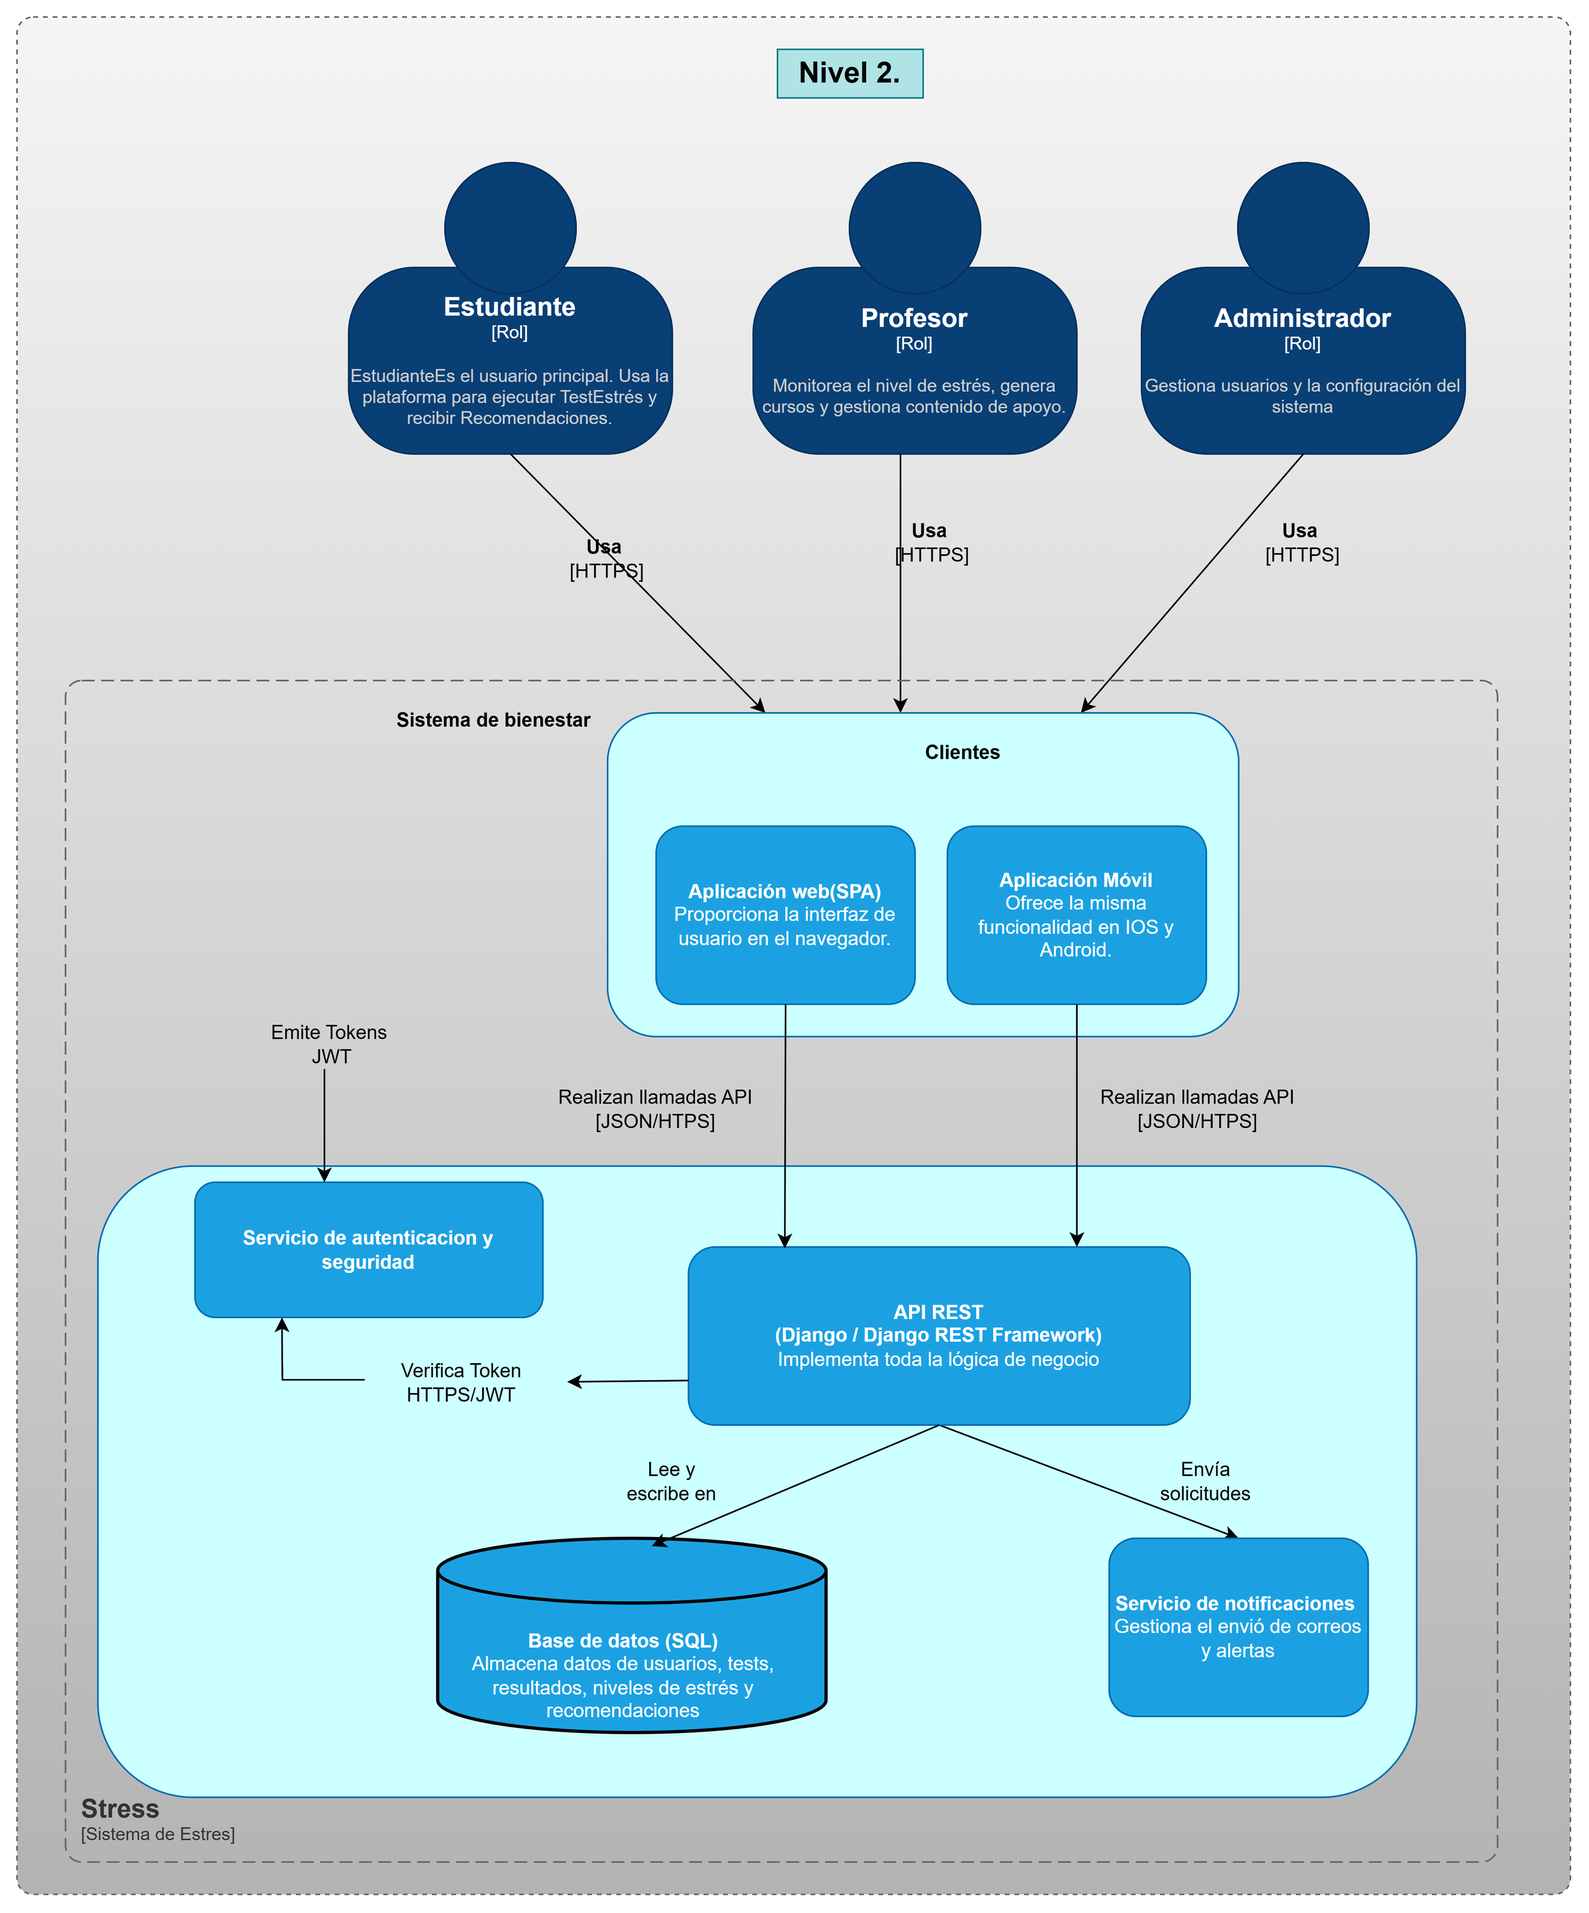
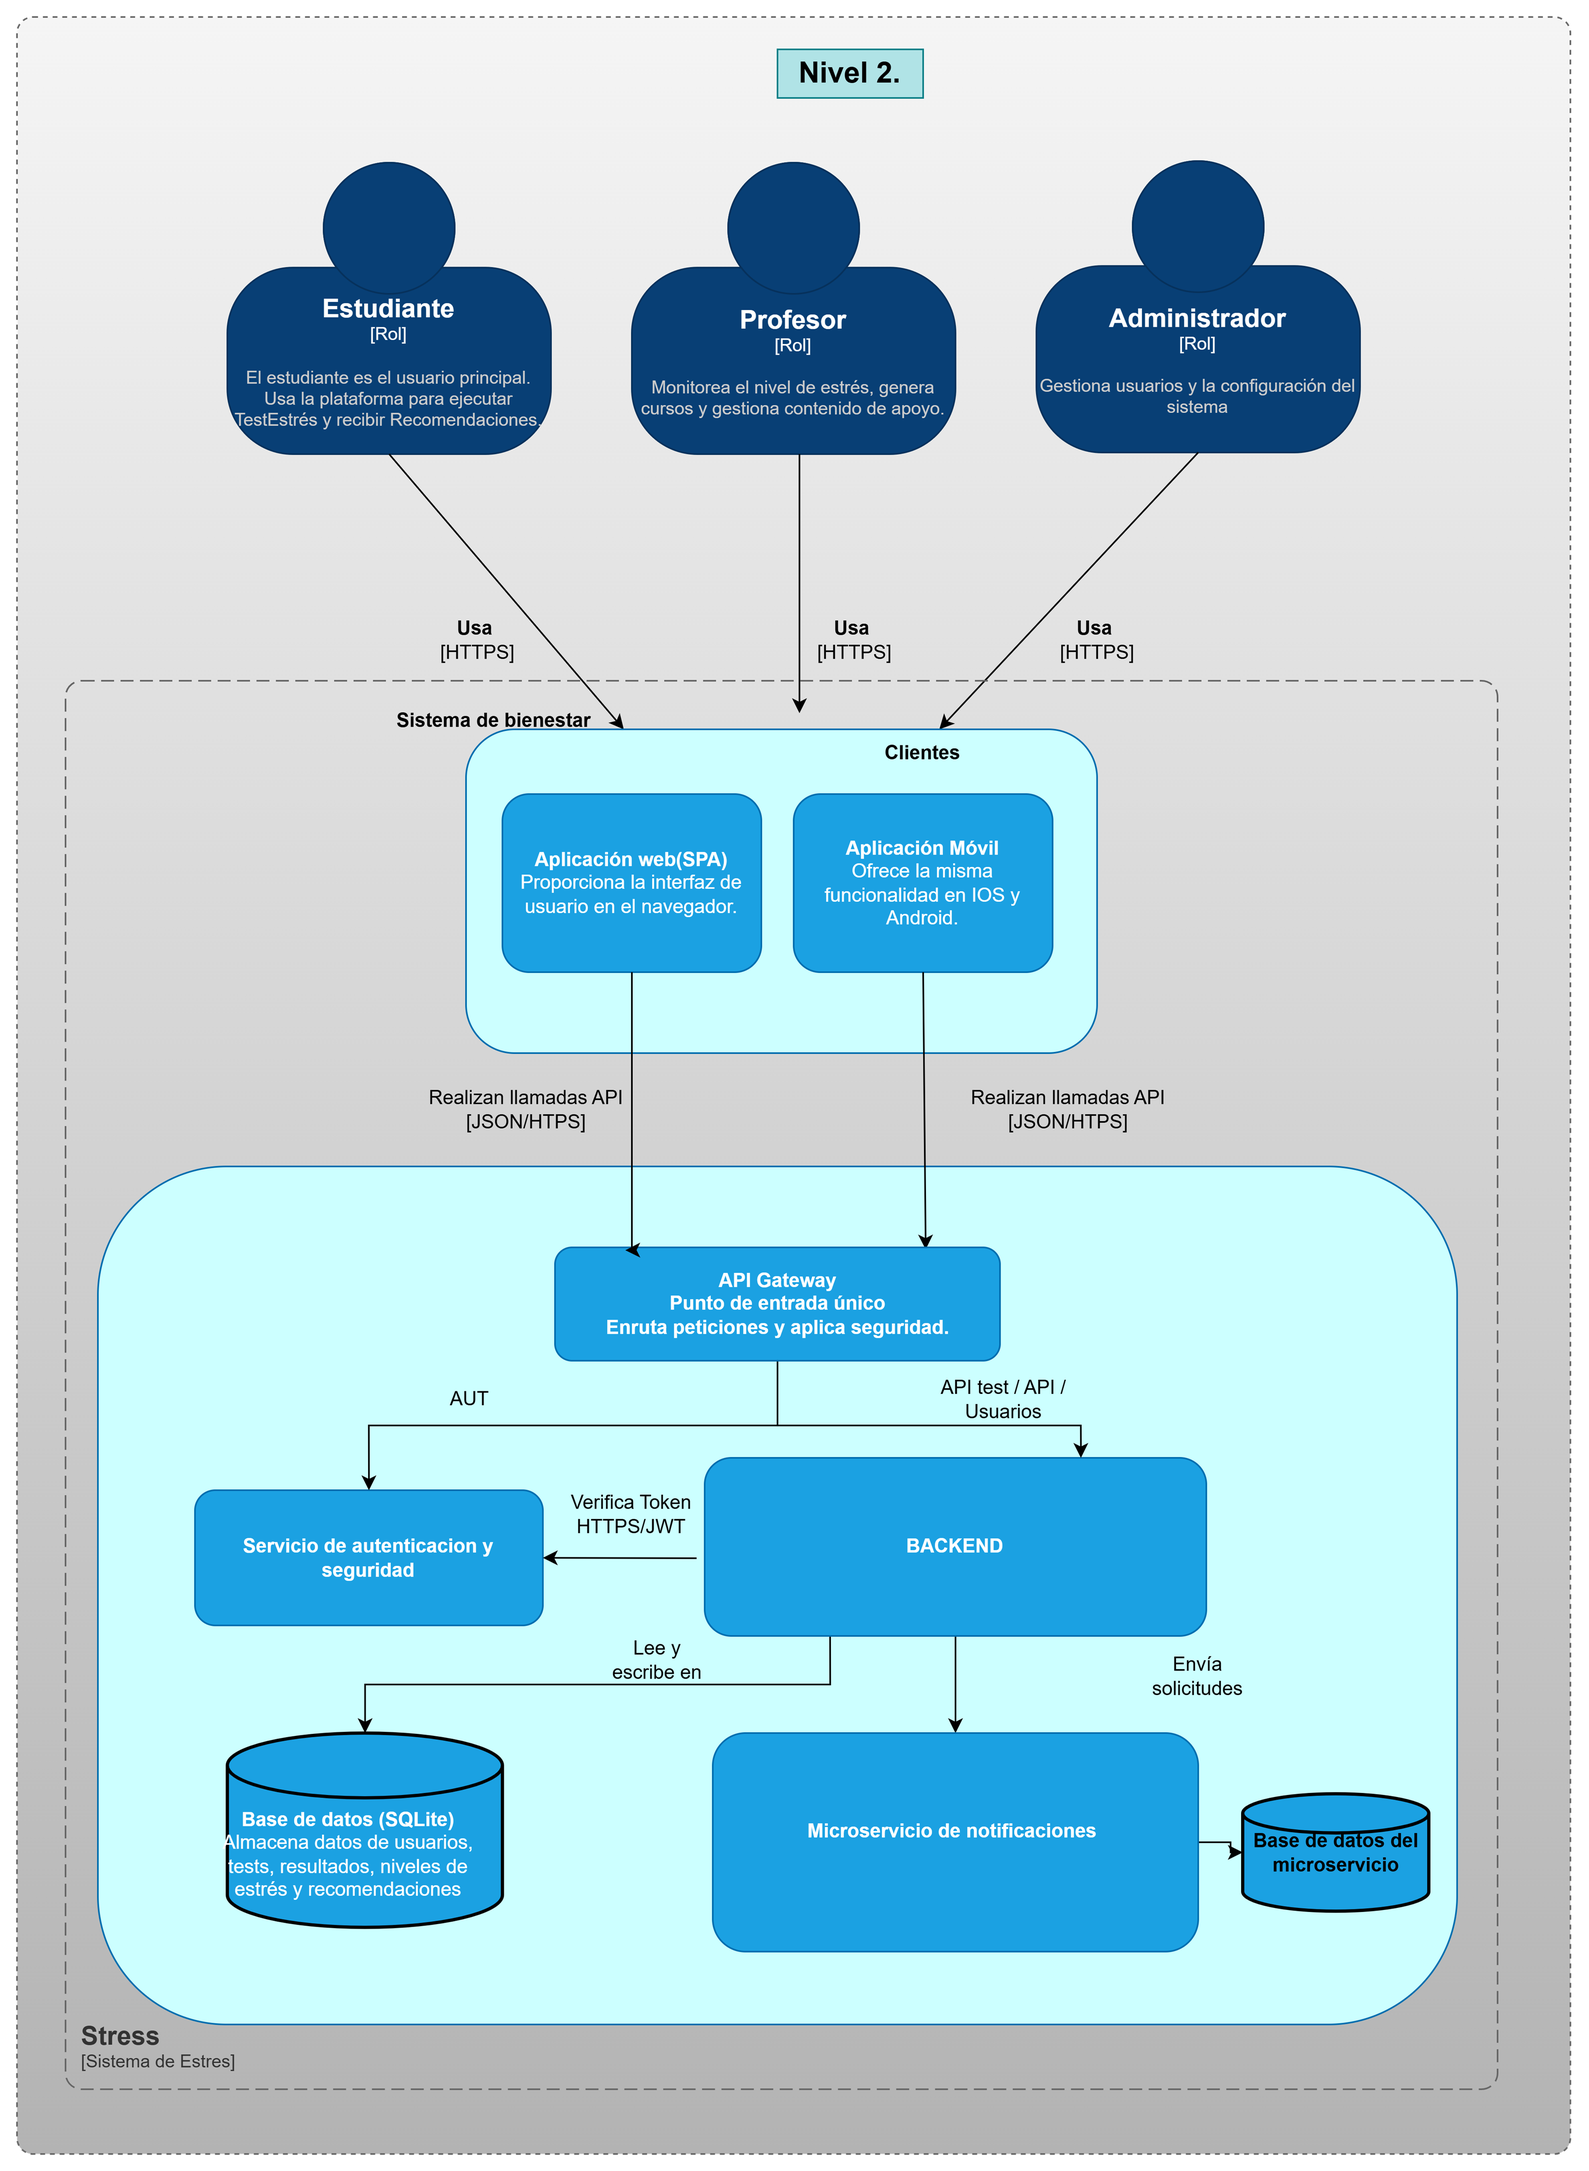
commit readme

diff --git a/proyecto_base/stress/templates/api_stresstrack_doc.html b/proyecto_base/stress/templates/api_stresstrack_doc.html
@@ -1,0 +1,242 @@
+<!doctype html>
+<html lang="es">
+<head>
+  <meta charset="utf-8" />
+  <meta name="viewport" content="width=device-width,initial-scale=1" />
+  <title>APIs - StressTrack</title>
+  <style>
+    :root{
+      --bg:#FAF9FF; --card:#FFF; --muted:#6B7280; --accent:#A7F3D0; --accent-2:#FDE68A;
+      --glass: rgba(255,255,255,0.6);
+      font-family: Inter, system-ui, -apple-system, 'Segoe UI', Roboto, 'Helvetica Neue', Arial;
+    }
+    body{background: linear-gradient(135deg,var(--bg),#F7F9FC); margin:0; padding:28px; color:#0F172A}
+    .container{max-width:980px;margin:0 auto}
+    header{display:flex;align-items:center;gap:16px}
+    h1{margin:0;font-size:20px}
+    .subtitle{color:var(--muted);font-size:13px}
+    .grid{display:grid;grid-template-columns:1fr 320px;gap:20px;margin-top:18px}
+    .card{background:var(--card);border-radius:12px;padding:18px;box-shadow:0 6px 18px rgba(15,23,42,0.06)}
+    .endpoint{border-left:4px solid #E6E9F2;padding:14px;border-radius:8px;margin-bottom:12px}
+    .method{display:inline-block;padding:6px 10px;border-radius:8px;font-weight:600;font-size:12px}
+    .GET{background:#ECFDF5;color:#065F46}
+    .POST{background:#EFF6FF;color:#1E3A8A}
+    .PUT{background:#FFF7ED;color:#92400E}
+    .DELETE{background:#FEF2F2;color:#991B1B}
+    pre{background:#F8FAFF;padding:12px;border-radius:8px;overflow:auto}
+    .muted{color:var(--muted);font-size:13px}
+    .copy{background:#111827;color:#fff;border:none;padding:6px 10px;border-radius:8px;cursor:pointer}
+    .side h3{margin-top:0}
+    .badge{display:inline-block;background:var(--glass);padding:6px 10px;border-radius:999px;font-size:12px;margin-right:8px}
+    footer{margin-top:18px;color:var(--muted);font-size:13px}
+    .example{display:flex;gap:8px;align-items:flex-start}
+    .tl{font-weight:600}
+  </style>
+</head>
+<body>
+  <div class="container">
+    <header>
+      <div style="width:48px;height:48px;border-radius:10px;background:linear-gradient(180deg,var(--accent),var(--accent-2));display:flex;align-items:center;justify-content:center;font-weight:700;color:#083344">ST</div>
+      <div>
+        <h1>Documentación de API — <span style="color:#0B1220">StressTrack</span></h1>
+        <div class="subtitle">Listado de endpoints REST, ejemplos de request/respuesta y pautas de autenticación.</div>
+      </div>
+    </header>
+
+    <div class="grid">
+      <main class="card">
+        <section>
+          <div class="muted">Base URL</div>
+          <pre>https://api.tu-dominio.com/v1</pre>
+          <div class="muted">Autenticación</div>
+          <p class="muted">Bearer token (JWT). Agregar cabecera <code>Authorization: Bearer &lt;token&gt;</code> a endpoints protegidos.</p>
+        </section>
+
+        <hr/>
+
+        <!-- Auth -->
+        <div class="endpoint">
+          <div style="display:flex;justify-content:space-between;align-items:center;margin-bottom:8px">
+            <div>
+              <span class="method POST">POST</span> <strong>/auth/login</strong>
+              <div class="muted">Obtener token de acceso (email o cédula + contraseña)</div>
+            </div>
+            <div class="muted">Público</div>
+          </div>
+          <div class="muted">Request</div>
+          <pre>{
+  "identifier": "estudiante@ejemplo.com", // o cédula
+  "password": "mi_contraseña"
+}</pre>
+          <div class="muted">Respuesta (ej.)</div>
+          <pre>{
+  "access": "eyJ...",
+  "refresh": "eyJ...",
+  "user": {"id": 12, "nombre": "Ana", "rol": "student"}
+}</pre>
+          <div style="margin-top:8px" class="example">
+            <button class="copy" onclick="copyText('loginCurl')">Copiar cURL</button>
+            <pre id="loginCurl" style="display:none">curl -X POST https://api.tu-dominio.com/v1/auth/login -H 'Content-Type: application/json' -d '{"identifier":"estudiante@ejemplo.com","password":"mi_contraseña"}'</pre>
+          </div>
+        </div>
+
+        <!-- Users -->
+        <div class="endpoint">
+          <div style="display:flex;justify-content:space-between;align-items:center;margin-bottom:8px">
+            <div>
+              <span class="method GET">GET</span> <strong>/users</strong>
+              <div class="muted">Listar usuarios (admin)</div>
+            </div>
+            <div class="muted">Protegido (admin)</div>
+          </div>
+          <div class="muted">Query params</div>
+          <pre>?page=1&limit=20&rol=student&grupo=3</pre>
+
+          <div class="muted">Respuesta (ej.)</div>
+          <pre>{
+  "count": 120,
+  "results": [{"id":1,"nombre":"Juan","rol":"student","cedula":"01010101"}, ...]
+}</pre>
+        </div>
+
+        <div class="endpoint">
+          <div style="display:flex;justify-content:space-between;align-items:center;margin-bottom:8px">
+            <div>
+              <span class="method POST">POST</span> <strong>/users</strong>
+              <div class="muted">Crear usuario</div>
+            </div>
+            <div class="muted">Protegido (admin)</div>
+          </div>
+          <div class="muted">Request (ej.)</div>
+          <pre>{"nombre":"María","email":"maria@ejemplo.com","cedula":"01020304","rol":"student","password":"pass1234"}</pre>
+        </div>
+
+        <!-- Groups -->
+        <div class="endpoint">
+          <div style="display:flex;justify-content:space-between;align-items:center;margin-bottom:8px">
+            <div>
+              <span class="method GET">GET</span> <strong>/groups</strong>
+              <div class="muted">Listar grupos</div>
+            </div>
+            <div class="muted">Protegido (docente/admin)</div>
+          </div>
+          <div class="muted">Crear grupo</div>
+          <pre>POST /groups {"nombre":"Grupo A","periodo":"2025-1","miembros":[12,13,14]}</pre>
+        </div>
+
+        <!-- Quizzes / Evaluations -->
+        <div class="endpoint">
+          <div style="display:flex;justify-content:space-between;align-items:center;margin-bottom:8px">
+            <div>
+              <span class="method POST">POST</span> <strong>/evaluations</strong>
+              <div class="muted">Crear evaluación (docente)</div>
+            </div>
+            <div class="muted">Protegido (docente)</div>
+          </div>
+          <div class="muted">Request (ej.)</div>
+          <pre>{
+  "titulo":"Evaluación Estrés - Parcial 1",
+  "descripcion":"12 preguntas - 4 categorías",
+  "preguntas":[ {"texto":"¿Te sientes...","categoria":"emocional","tipo":"likert","opciones":["Nunca","Rara vez","A veces","Frecuente"]}, ...],
+  "visible_por_defecto": true
+}</pre>
+        </div>
+
+        <div class="endpoint">
+          <div style="display:flex;justify-content:space-between;align-items:center;margin-bottom:8px">
+            <div>
+              <span class="method POST">POST</span> <strong>/evaluations/{id}/assign</strong>
+              <div class="muted">Asignar evaluación a estudiantes o grupos</div>
+            </div>
+            <div class="muted">Protegido (docente)</div>
+          </div>
+          <div class="muted">Request (ej.)</div>
+          <pre>{"asignados":{"usuarios":[12,13],"grupos":[3]},"fecha_inicio":"2025-11-20","fecha_fin":"2025-12-05"}</pre>
+        </div>
+
+        <div class="endpoint">
+          <div style="display:flex;justify-content:space-between;align-items:center;margin-bottom:8px">
+            <div>
+              <span class="method GET">GET</span> <strong>/students/{id}/evaluations</strong>
+              <div class="muted">Historial de evaluaciones realizadas por un estudiante</div>
+            </div>
+            <div class="muted">Protegido (estudiante / docente con permiso)</div>
+          </div>
+          <div class="muted">Respuesta (ej.)</div>
+          <pre>{"evaluaciones":[{"id":45,"titulo":"Evaluación 1","fecha":"2025-06-10","resultado":{"nivel":"medio","score":7.5}}]}</pre>
+        </div>
+
+        <!-- Results -->
+        <div class="endpoint">
+          <div style="display:flex;justify-content:space-between;align-items:center;margin-bottom:8px">
+            <div>
+              <span class="method POST">POST</span> <strong>/evaluations/{id}/submit</strong>
+              <div class="muted">Enviar respuestas de un estudiante</div>
+            </div>
+            <div class="muted">Protegido (estudiante)</div>
+          </div>
+          <div class="muted">Request (ej.)</div>
+          <pre>{"respuestas":[{"pregunta_id":1,"respuesta":2},...] , "config":{"compartir_con_docente": true}}</pre>
+        </div>
+
+        <!-- Notifications -->
+        <div class="endpoint">
+          <div style="display:flex;justify-content:space-between;align-items:center;margin-bottom:8px">
+            <div>
+              <span class="method GET">GET</span> <strong>/notifications</strong>
+              <div class="muted">Listar notificaciones (usuario)</div>
+            </div>
+            <div class="muted">Protegido (usuario autenticado)</div>
+          </div>
+          <div class="muted">POST /notifications enviar notificación (admin/docente) con payload {"titulo":"...","mensaje":"...","usuarios":[12],"tipo":"alert"}</div>
+        </div>
+
+        <!-- Statistics -->
+        <div class="endpoint">
+          <div style="display:flex;justify-content:space-between;align-items:center;margin-bottom:8px">
+            <div>
+              <span class="method GET">GET</span> <strong>/stats/evaluations/summary</strong>
+              <div class="muted">Resumen estadístico por curso/grupo (docente/admin)</div>
+            </div>
+            <div class="muted">Protegido (docente/admin)</div>
+          </div>
+          <div class="muted">Query params: ?grupo=3&periodo=2025-1</div>
+        </div>
+
+      </main>
+
+      <aside class="card side">
+        <h3>Guía rápida</h3>
+        <div class="muted">Buenas prácticas</div>
+        <ul>
+          <li>Usa paginación en listados grandes (page & limit).</li>
+          <li>Valida roles en el backend (admin/docente/estudiante).</li>
+          <li>Almacena JWT en cookies HttpOnly o en almacenamiento seguro.</li>
+          <li>Registra eventos importantes (creación/edición/asignación).</li>
+        </ul>
+
+        <h3 style="margin-top:12px">Códigos HTTP comunes</h3>
+        <div class="badge">200 OK</div><div class="badge">201 Created</div><div class="badge">400 Bad Request</div><div class="badge">401 Unauthorized</div><div class="badge">403 Forbidden</div><div class="badge">404 Not Found</div>
+
+        <h3 style="margin-top:12px">Ejemplo fetch</h3>
+        <pre>fetch('https://api.tu-dominio.com/v1/evaluations',{method:'GET',headers:{'Authorization':'Bearer '+token}})</pre>
+
+        <h3 style="margin-top:12px">Notas</h3>
+        <p class="muted">Reemplaza los ejemplos por los campos reales de tu modelo Django (User, Group, Evaluation, Result).</p>
+      </aside>
+    </div>
+
+    <footer class="muted">Archivo generado automáticamente — edítalo para agregar tus rutas y modelos exactos.</footer>
+  </div>
+
+  <script>
+    function copyText(id){
+      const el = document.getElementById(id);
+      const text = el ? el.innerText : '';
+      navigator.clipboard.writeText(text).then(()=>{
+        alert('Copiado al portapapeles')
+      }).catch(()=>alert('No se pudo copiar'))
+    }
+  </script>
+</body>
+</html>

diff --git a/proyecto_base/stress/templates/dashboard/panel.html b/proyecto_base/stress/templates/dashboard/panel.html
@@ -1,3 +1,8 @@
+{% extends "base/dashboard_base.html" %}
+
+{% block content %}
+
+{% include "elements/messages.html" %}
 
 
 <main class="main p-4 pt-2 pe-5">
@@ -26,3 +31,5 @@
         </div>
     </div>
 </main>
+
+{% endblock content %}

diff --git a/proyecto_base/proyecto/settings.py b/proyecto_base/proyecto/settings.py
@@ -135,8 +135,8 @@ EMAIL_HOST_USER = 'stresstrackservice@gmail.com'
 EMAIL_HOST_PASSWORD = 'mahjbtvtpiopsvbs'
 
 # CELERY SETTINGS
-CELERY_BROKER_URL = 'redis://localhost:6379/0' # URL de tu broker (Redis)
-CELERY_ACCEPT_CONTENT = ['json']
-CELERY_TASK_SERIALIZER = 'json'
-CELERY_RESULT_SERIALIZER = 'json'
-CELERY_TIMEZONE = TIME_ZONE # Usa el timezone de Django
+#CELERY_BROKER_URL = 'redis://localhost:6379/0' # URL de tu broker (Redis)
+#CELERY_ACCEPT_CONTENT = ['json']
+#CELERY_TASK_SERIALIZER = 'json'
+#CELERY_RESULT_SERIALIZER = 'json'
+#CELERY_TIMEZONE = TIME_ZONE # Usa el timezone de Django

diff --git a/proyecto_base/stress/views.py b/proyecto_base/stress/views.py
@@ -15,6 +15,9 @@ def home(request):
         return redirect('panel')
     return render(request, 'index.html')
 
+def apis(request):
+    return render(request, 'api_stresstrack_doc.html')
+
 def log_in(request):
     if request.method == 'POST':
         form = CustomAuthenticationForm(request, request.POST)

diff --git a/proyecto_base/stress/urls.py b/proyecto_base/stress/urls.py
@@ -50,4 +50,7 @@ urlpatterns = [
     
     # recommendation
     path('recommendation/delete/<int:reco_id>/', views.delete_recommendation, name='delete-recommendation'),
+
+    #apis
+    path('apis', views.apis, name='apis'),
 ]

diff --git a/.github/README.md b/.github/README.md
@@ -14,9 +14,22 @@ Este es un proyecto para gestionar y realizar tests de estrés en estudiantes.
 - Framework: Django
 - Arquitectura MVC (Modelo - Vista - Controlador) adaptada a MVT de Django.
 - Estructura base:  
-- ├─backend_entorno/→ configuración del proyecto
-- ├─ manage.py → script principal
-- ├─ venv/ → entorno virtual
+- proyecto-base/
+- ├── backend/                                                  # Código fuente del backend
+- │   ├── src/                                                  #(Módulos, controladores, servicios, repositorios)
+- │   ├── tests/                                                # Pruebas unitarias y de integración
+- │   ├── requirements.txt                                      # o package.json según el framework
+- |   ├── .env.example                                          # Variables de entorno (sin claves reales)
+- ├── docs/                                                     # Documentación del proyecto
+- │   ├── architecture/                                         # Diagramas C4
+- │   │   ├── context-diagram.png
+- │   │   ├── container-diagram.png
+- │   │   └── component-diagram.png
+- │   └── informe-seguridad.pdf
+- ├── .github/                                                  # (Opcional) Acciones de CI/CD o plantillas
+- |    ├── README.md                                            # Descripción general del proyecto
+- |    ├── LICENSE                                              # Licencia
+- |    └── .gitignore                                           # Archivos a excluir del control de versiones
 
 ## 🌿 Flujo GitFlow
 1. Se crea rama `feature/entorno-inicial`
